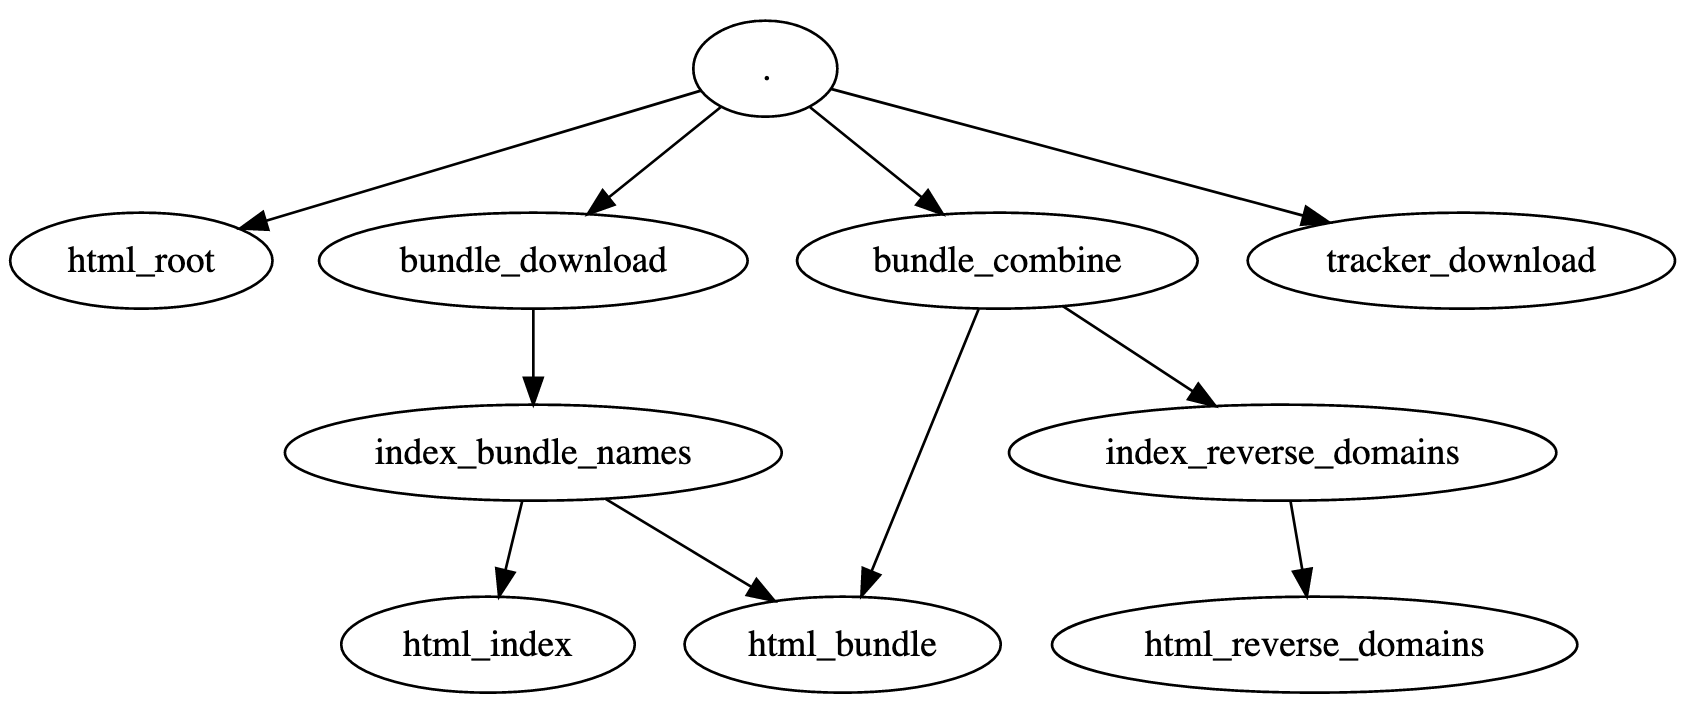
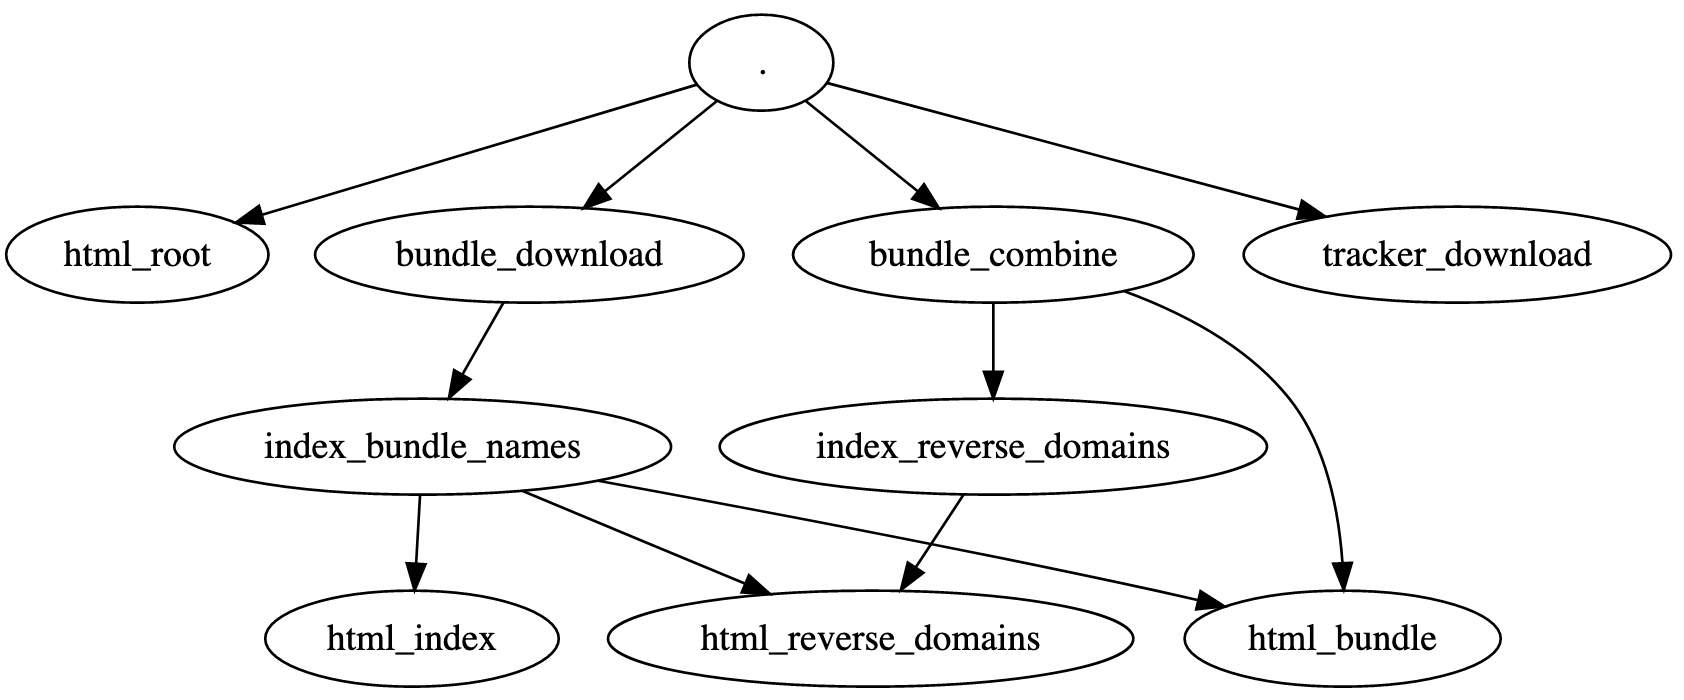
Small changes

diff --git a/src/html_bundle.py b/src/html_bundle.py
@@ -116,11 +116,11 @@ def gen_html(bundle_id, obj):
   { gen_dom_tags(obj['tracker'], isSub=True, onlyTrackers=True) }
   <p></p>
 
-  <h4>Overlapping Domains ({ len(obj['pardom']) }):</h4>
+  <h4>Domains ({ len(obj['pardom']) }):</h4>
   { gen_dotgraph(obj['pardom']) }
   { gen_dom_tags(obj['pardom'], isSub=False) }
 
-  <h4>Overlapping Subdomains ({ len(obj['subdom']) }):</h4>
+  <h4>Subdomains ({ len(obj['subdom']) }):</h4>
   { gen_dotgraph(obj['subdom']) }
   { gen_dom_tags(obj['subdom'], isSub=True) }
 </div>

diff --git a/src/bundle_combine.py b/src/bundle_combine.py
@@ -4,7 +4,7 @@ import os
 import re
 import sys
 import common_lib as mylib
-import tracker_download as tracker
+import tracker_download
 
 
 THRESHOLD_PERCENT_OF_LOGS = 0.33  # domain appears in % recordings
@@ -49,7 +49,7 @@ def json_combine(bundle_id):
         try:
             ddic[key][1].append(num)
         except KeyError:
-            ddic[key] = (tracker.is_tracker(key), [num])
+            ddic[key] = (tracker_download.is_tracker(key), [num])
 
     res = {'rec_len': []}
     pardom = {}

diff --git a/src/README.md b/src/README.md
@@ -45,6 +45,7 @@ digraph G {
   bundle_download -> index_bundle_names
   index_bundle_names -> html_bundle
   index_bundle_names -> html_index
+  index_bundle_names -> html_reverse_domains
   "." -> bundle_combine
   bundle_combine -> index_reverse_domains
   index_reverse_domains -> html_reverse_domains
